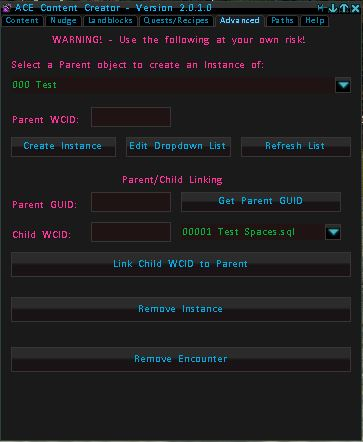
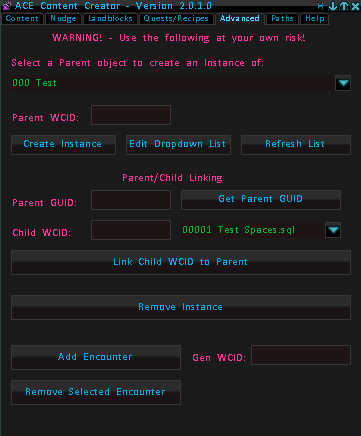
Added Add encounter

diff --git a/AceCreator.cs b/AceCreator.cs
@@ -327,9 +327,13 @@ namespace AceCreator
             ButtonAdvancedRemoveInst = view != null ? (HudButton)view["ButtonAdvancedRemoveInst"] : new HudButton();
             ButtonAdvancedRemoveInst.Hit += new EventHandler(ButtonRemoveInstace_Click);
 
+            ButtonAdvancedAddEncounter = view != null ? (HudButton)view["ButtonAdvancedAddEncounter"] : new HudButton();
+            ButtonAdvancedAddEncounter.Hit += new EventHandler(ButtonAdvancedAddEncounter_Click);
+
+            TextBoxEncounterWCID = (HudTextBox)view["TextBoxEncounterWCID"];
+
             ButtonAdvancedRemoveEncounter = view != null ? (HudButton)view["ButtonAdvancedRemoveEncounter"] : new HudButton();
             ButtonAdvancedRemoveEncounter.Hit += new EventHandler(ButtonAdvancedRemoveEncounter_Click);
-
 
             // ***** Paths Tab *****
             TextBoxPathJSON = (HudTextBox)view["TextboxPathJSON"];

diff --git a/TabAdvanced.cs b/TabAdvanced.cs
@@ -18,8 +18,11 @@ namespace AceCreator
         public HudButton ButtonAdvancedRemoveInst { get; set; }
         public HudButton ButtonCreateMob { get; set; }
 
+
+        public HudButton ButtonAdvancedAddEncounter { get; set; }
         public HudButton ButtonAdvancedRemoveEncounter { get; set; }
-        
+        public HudTextBox TextBoxEncounterWCID { get; set; }
+
 
         public HudTextBox TextboxGeneratorWCID { get; set; }
 
@@ -130,6 +133,15 @@ namespace AceCreator
             }
             catch (Exception ex) { Util.LogError(ex); }
         }
-        
+        public void ButtonAdvancedAddEncounter_Click(object sender, EventArgs e)
+        {
+
+            try
+            {
+                Util.SendChatCommand("/addenc " + TextBoxEncounterWCID.Text);
+            }
+            catch (Exception ex) { Util.LogError(ex); }
+        }
+
     }
 }
